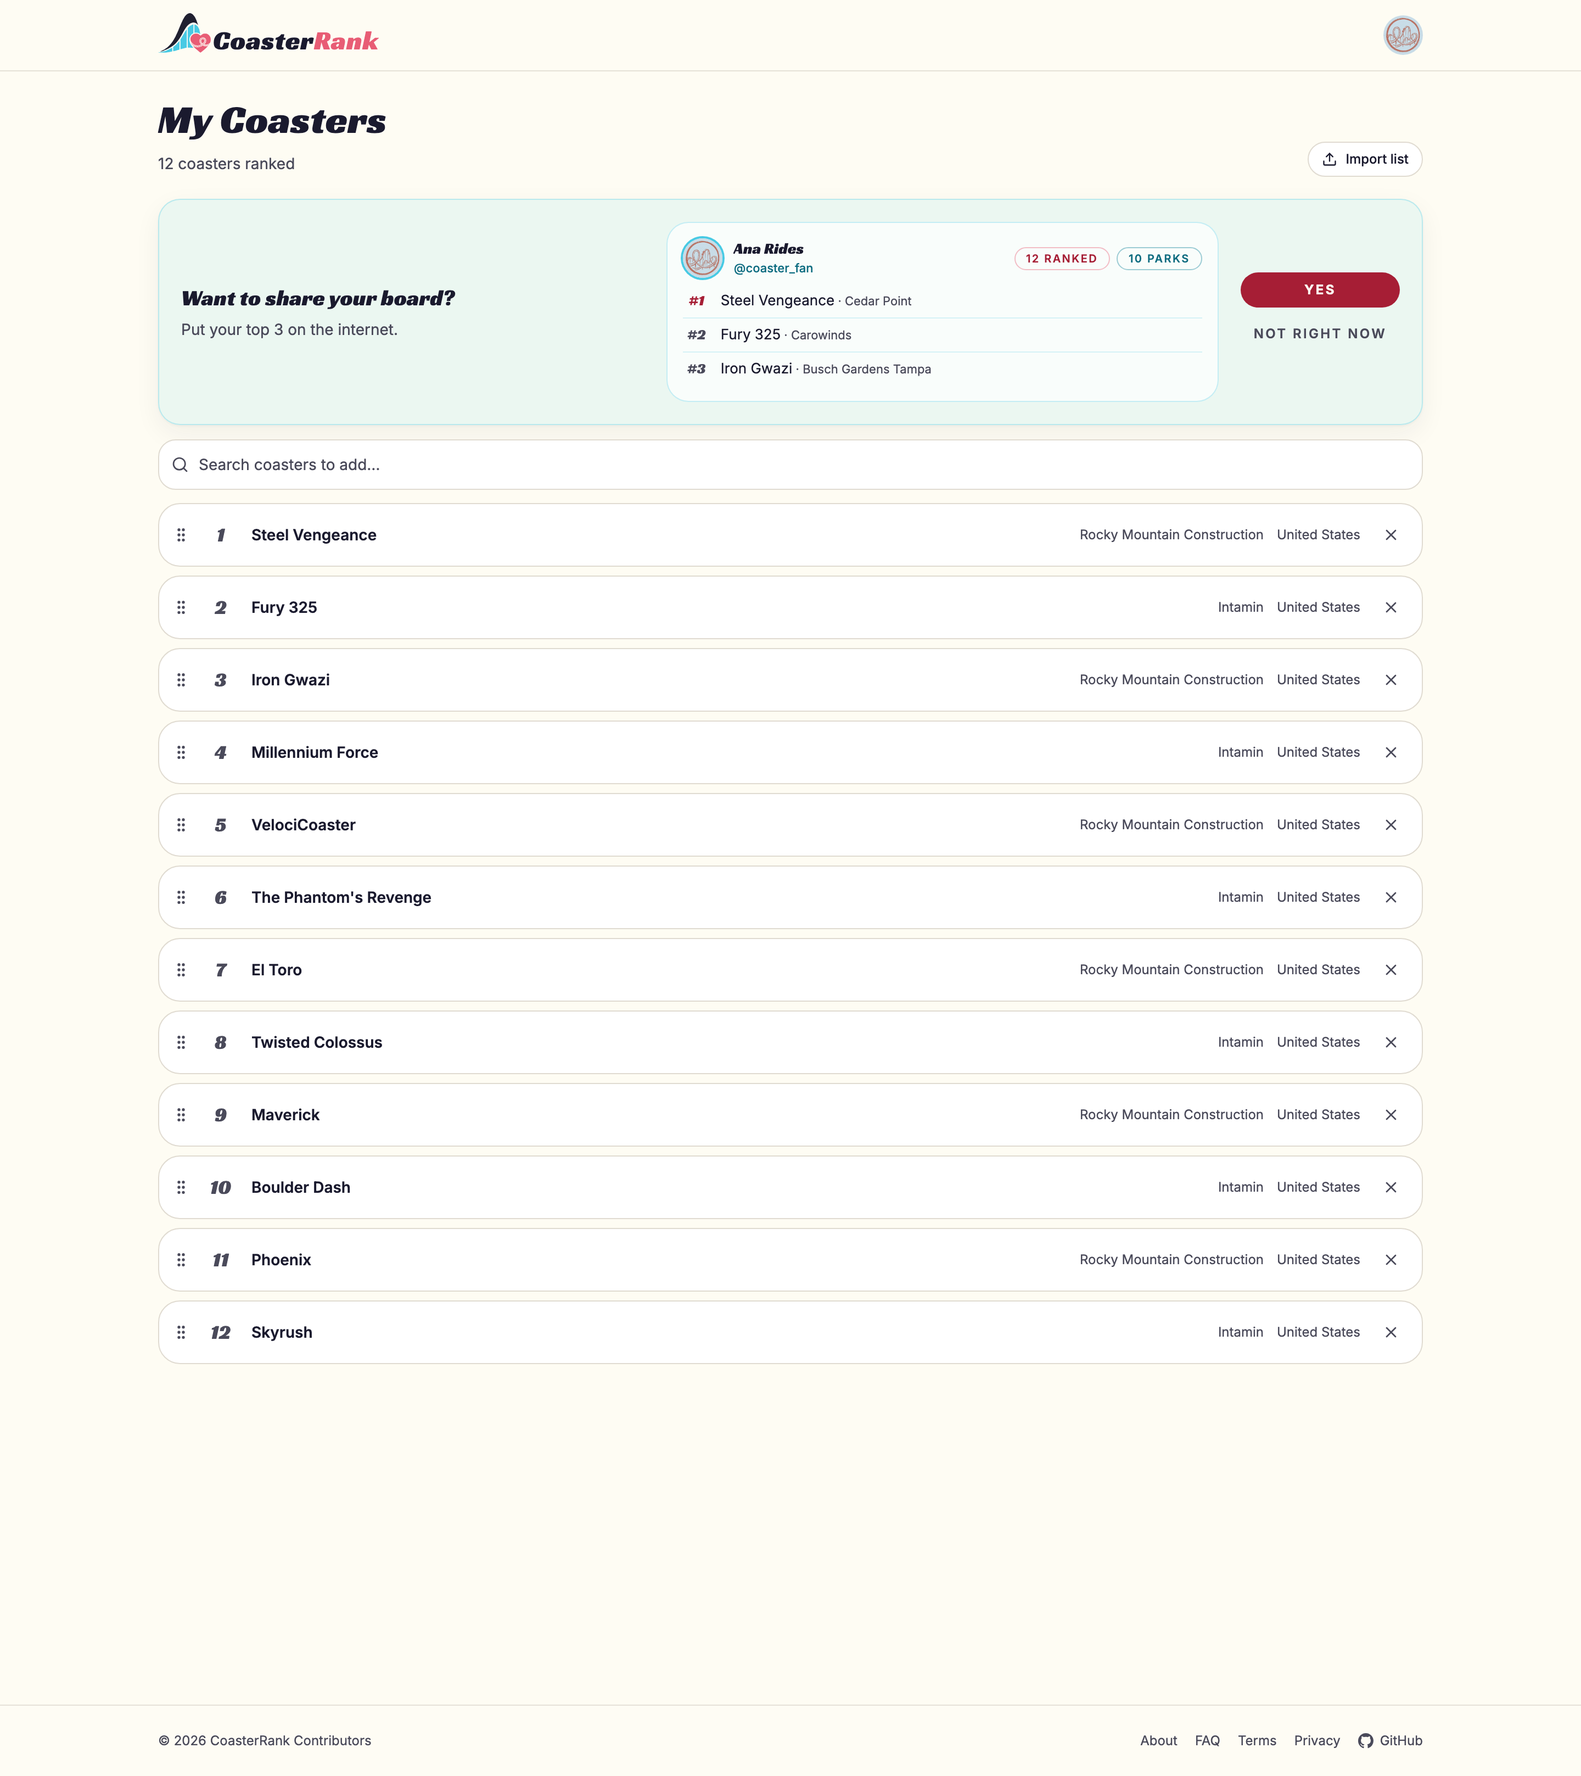
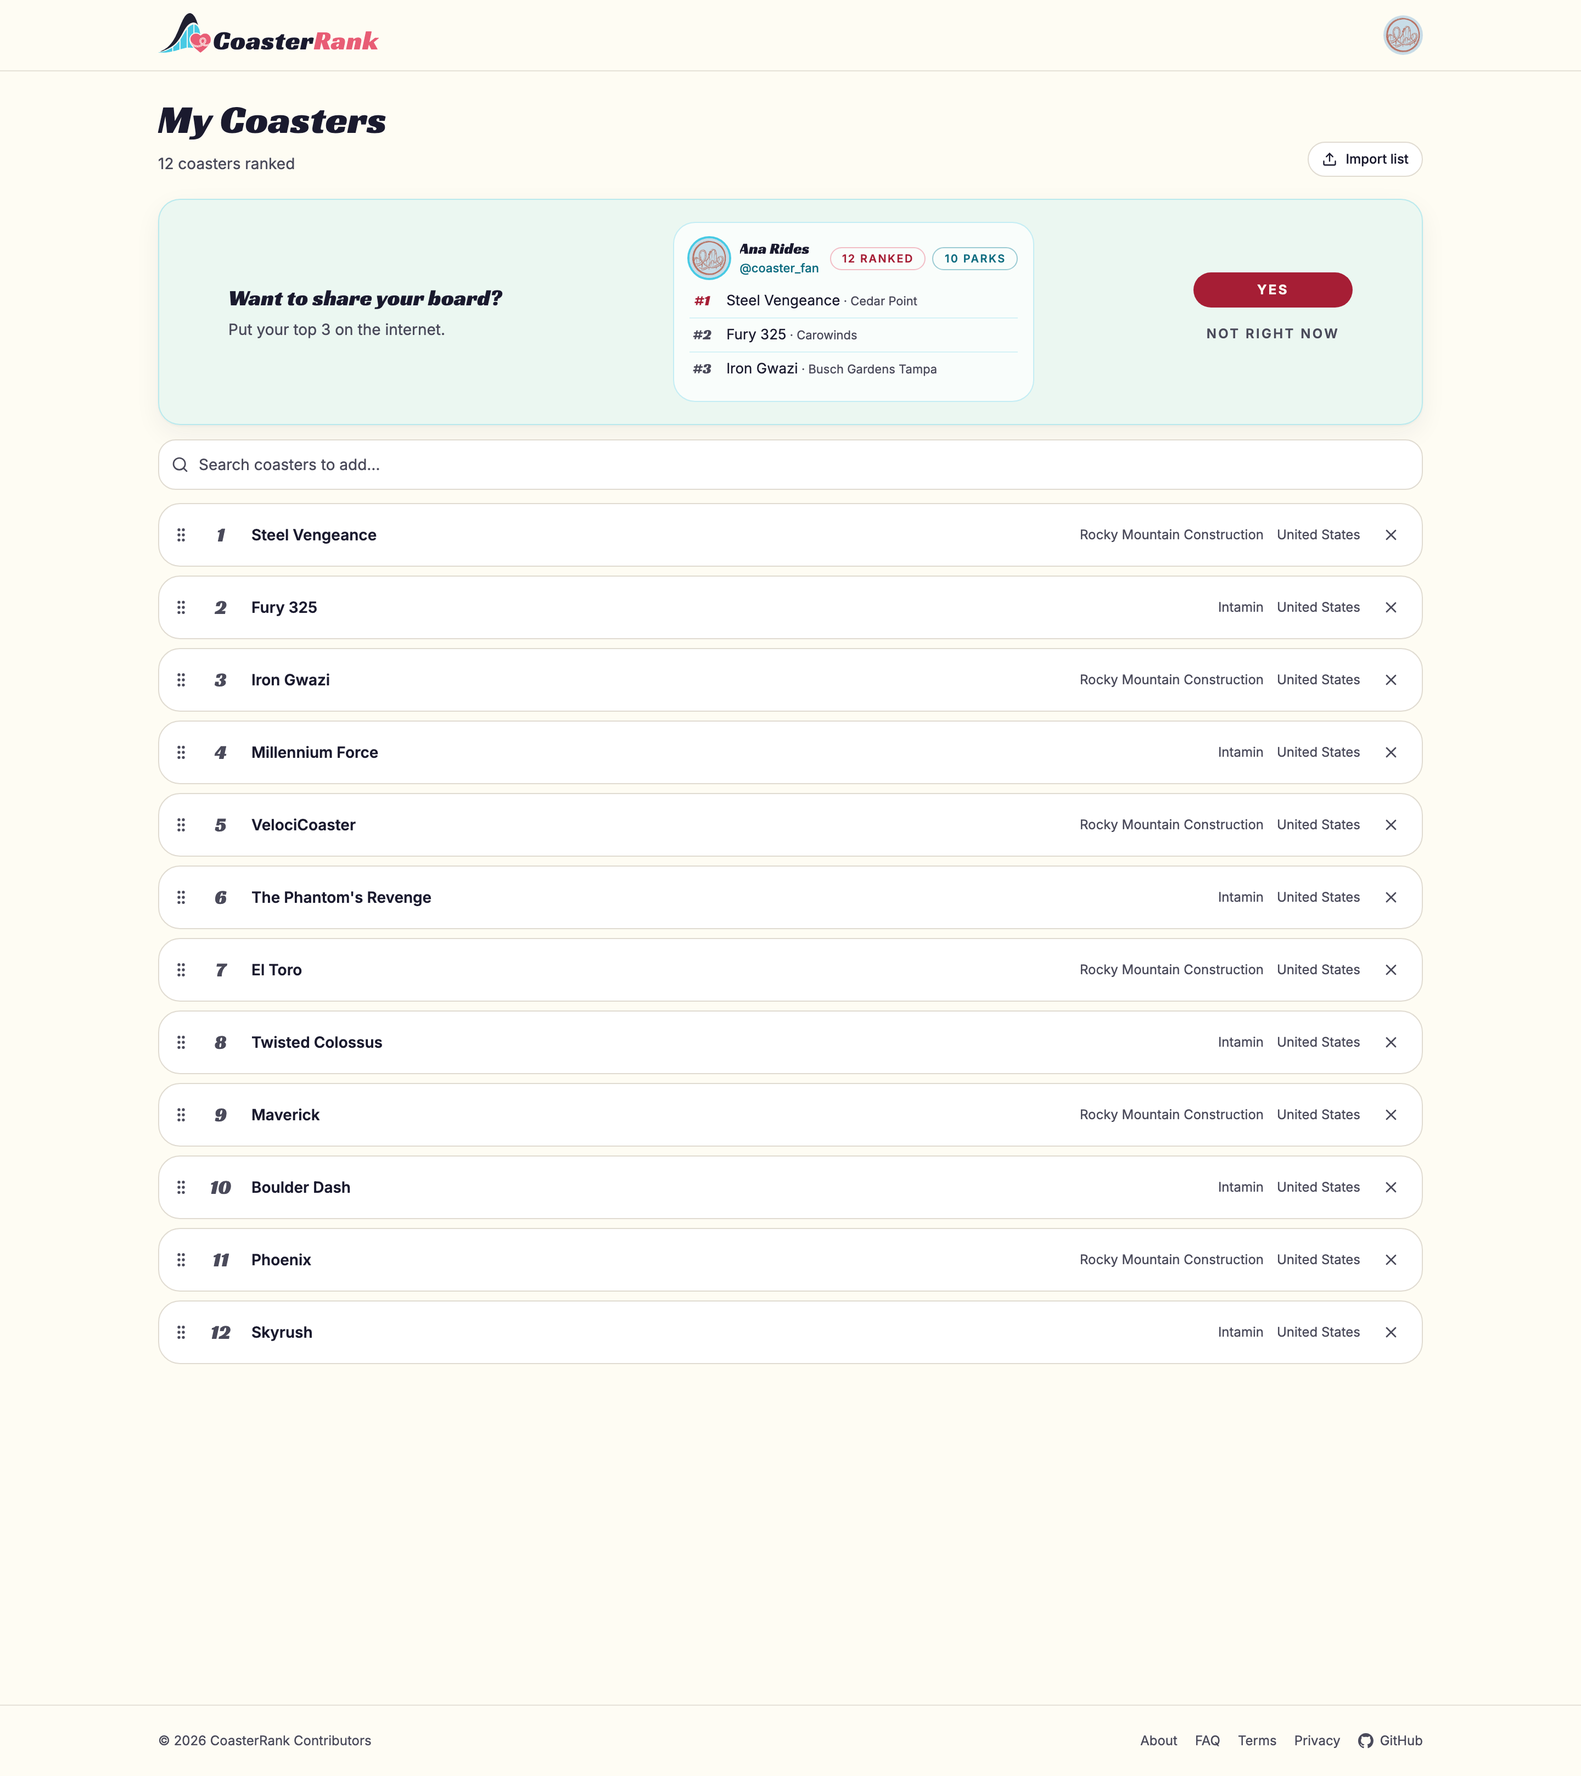
fix: even desktop gutters in share-nudge via centered max-w-5xl cluster
The dead zone right of the question was flex-1 growth pooling inside
the 350px left column (text only needs ~248px). Columns are now
content-width inside a centered max-w-5xl cluster with justify-between,
so leftover space moves to the banner's own padding and the two real
gutters split evenly (~148px each, measured). Left column sized to its
text (sm:w-[260px]); mobile layout unchanged (all adjustments sm:
prefixed). Preview shots refreshed.

diff --git a/app/src/components/ShareNudgeBanner.tsx b/app/src/components/ShareNudgeBanner.tsx
@@ -60,18 +60,21 @@ export default function ShareNudgeBanner({
       className="rounded-xl border border-accent/30 bg-accent/10 p-4 shadow-panel sm:p-5"
       data-testid="share-nudge-banner"
     >
-      {/* Desktop only: tighten the left↔middle dead zone and give the middle
-          column its own outlined card feel; mobile stacks unwrapped and keeps
-          the rows directly on the tint. */}
-      <div className="flex flex-wrap items-center gap-x-5 gap-y-4">
-        <div className="min-w-0 flex-1 basis-52">
+      {/* Desktop only: the column cluster is capped at max-w-5xl and centered
+          so leftover space moves to the banner's own padding instead of
+          pooling between the columns; justify-between then splits the small
+          remainder evenly across the two gutters. Columns stay content-width
+          (no flex-1 growth) and shrink gracefully below the cap; mobile
+          stacks unwrapped and keeps the rows directly on the tint. */}
+      <div className="mx-auto flex w-full max-w-5xl flex-wrap items-center justify-between gap-x-5 gap-y-4">
+        <div className="min-w-0 flex-1 basis-52 sm:w-[260px] sm:flex-none">
           <p className="display-heading text-xl leading-tight text-ink">
             Want to share your board?
           </p>
           <p className="mt-1.5 text-sm leading-snug text-muted">Put your top 3 on the internet.</p>
         </div>
 
-        <div className="min-w-0 flex-1 basis-72 sm:rounded-xl sm:border sm:border-accent/30 sm:bg-surface-bright/70 sm:p-3.5">
+        <div className="min-w-0 flex-1 basis-72 sm:max-w-[420px] sm:basis-auto sm:grow-0 sm:rounded-xl sm:border sm:border-accent/30 sm:bg-surface-bright/70 sm:p-3.5">
           <div className="flex flex-wrap items-center gap-x-2.5 gap-y-1.5">
             <Avatar
               src={avatarUrl}
@@ -115,7 +118,7 @@ export default function ShareNudgeBanner({
           )}
         </div>
 
-        <div className="flex w-full gap-2 sm:w-auto sm:flex-col sm:gap-2">
+        <div className="flex w-full gap-2 sm:w-auto sm:flex-col sm:shrink-0 sm:gap-2">
           <button
             type="button"
             onClick={() => setUnfurled(true)}

diff --git a/docs/PLAN.md b/docs/PLAN.md
@@ -32,7 +32,7 @@ A multi-user webapp where users rank the roller coasters they've ridden, and eve
 | Board meta + homepage rework (2026-09) | `/api/ranking` gains `last_recomputed_at` + `real_user_count` via a new `public_board_meta()` security-definer RPC (aggregate-only, anon-granted like `ranked_user_count()`; source: `cron_execution_logs` success row + profiles minus admins minus synthetic). Homepage: lockup scaled ~12%, TrackLine removed, status line always-rendered with skeletons (CLS slot `min-h-[60vh|65vh]`), gated user count (>50, desktop-only), `Live ●` popunder (hover shows / click pins; `last_recomputed_at` preferred), plain `About` link → `/about` stub, table rework (Country column dropped, GCI/CCI acronyms, white rank circles with display-font accent numerals + ink drop shadow on every rank, muted coral podium ramp 0.05/0.03/0.015, ~5% denser rows desktop+mobile, accent-tint rounded score pill, both layouts CSS-gated). Remaining open call: hero line placement A/B (mocked on the design board `/design.html`, dev-only). | Worker holds only the anon key (profiles/cron logs are RLS-locked; `coaster_ratings.updated_at` is first-insert stale), so one aggregate RPC is the only clean source; UI rework tracked as the homepage punchlist (§1–§8), final calls decided 2026-09-05. |
 | Full About + FAQ pages (2026-09) | `/about` rewritten from stub to full copy: open-source framing, layperson Bradley–Terry explainer (head-to-heads not stars, 100 = community average, per-rider influence normalization), personal backstory (VoteCoasters credit + link, "weekend project" gag), contribution asks (code/data/riding), `— pandeiro` handle sign-off. New `/faq` route (8 starter Q&As) linked from About + footer. Opt-in math disclosures (`MathDisclosure` component): collapsed by default, first open lazy-`import()`s **KaTeX** (+CSS/fonts) via a dynamic chunk — zero main-bundle cost; two inserts cover the BT probability model + MM update with anchor/λ rationale (from `packages/bt/src/mm.ts`) and the per-user weighting `w = 1/(n(n-1)/2)`; display equations sit in boxed rows that stack via `aligned` so 390px viewports don't clip. Tests assert collapsed default + lazy KaTeX render. | Normies get the plain-English story; the math is one sigma-pill click away. KaTeX over MathJax for bundle weight; disclosure content mirrors the real fit (not a simplified variant) so it can't drift from `packages/bt`. Deeper math treatment stays reserved for a future GH wiki page. |
 | Ranking-milestone share CTAs (2026-09, **removed**) | The 5/10-ranked milestone share CTAs on `/me` (`ShareListCard` + `lib/share-cta.ts`, per-milestone localStorage dismissal) are **scrapped** — `/me` stays a pure ranking surface. Share discovery remains where it belongs: `/me/profile` (URL display + copy link + opt-in toggle; `CopyLinkButton` extracted to its own component). Replaced days later by the idle-settled banner (next row) once the placement was rethought. | Just gets in the way on the primary ranking surface and doesn't drive shares; milestone framing ("5 ranked!") felt gamified-noisy rather than useful. |
-| Share nudge v2: idle-settled banner (2026-09) | A subtle, dismissible banner above the `/me` list — ONE small light accent-blue card (`bg-accent/10`, plain div not `Panel`, whose `bg-surface-bright` would win the cascade) laid out as **three tight columns**: ① the **"Want to share your board?"** question + one-line tagline ("Put your top 3 on the internet."), ② a **condensed skeleton of the rider share page** (cyan-ringed avatar, display-font name, cyan @handle, `N ranked` coral / `N parks` cyan outline pills, top-3 rows single-line with inline park names — park names ride along in the existing `useMyRides` embed via `parks(name, country)`; Racing Sans One `#N` ranks, `#1` coral, #2/#3 muted) in its own outlined sub-card on desktop (`sm:border-accent/30 sm:bg-surface-bright/70`, mobile rows stay directly on the tint) to keep banner height constrained; column gap tightened (`gap-x-5`) so the middle card doesn't float right of the question, ③ **YES** (crimson pill) / **NOT RIGHT NOW** (ghost, dismisses). YES **unfurls** (animated `animate-unfurl`) a full-width divider row: the rider URL as plain protocol-stripped mono text + Copy (full URL) + Preview when public, else profile-settings instructions ("Turn on public sharing… your page is already waiting at `/riders/{username}`"); the no-username branch stays inside the same unfurl (signup collects a username, but `handle_new_user()` deliberately falls back to `username = NULL` on unique-violation signup races — those users claim later). On mobile only, the banner renders between the page title and the full-width Import list button (flex-wrap ordering), keeping Import adjacent to the search/ranking machinery; desktop keeps Import top-right. Eligibility is ONE server-side RPC, `share_nudge_eligibility()`, called only at the My Coasters mount (never the board or coaster/park detail pages, never a modal on load): `profiles.share_nudge_shown_at IS NULL` AND ranked_count ≥ 5 (floor — nobody's "settled" this early) AND last ranked-ride edit ≥ 48h idle (settled, not mid-session tweaking). The RPC decides AND claims atomically — claim is `UPDATE profiles SET share_nudge_shown_at = now() WHERE id = auth.uid() AND share_nudge_shown_at IS NULL`, returning `found` as `eligible`, so multi-tab/multi-mount races collapse to exactly one banner ever. Dismiss is session-local UI state; no "dismissed" write exists. Data: one nullable column `profiles.share_nudge_shown_at`, written only by the RPC (deliberately kept off the client update-column whitelist). `user_rides.updated_at` was UPDATE-trigger-only (rank changes), leaving imported/once-ranked rows NULL forever → the trigger now stamps INSERTs too, plus a one-time backfill (`update user_rides set updated_at = now() where updated_at is null`) whose `now()` baseline is an honest conservative floor (long-idle lists become eligible ~48h post-deploy, nobody is misclassified as recently active). Client: `useShareNudge` (`staleTime: Infinity` — repeat mounts reuse the session's verdict instead of re-calling the claiming RPC). | The milestone card got in the way; idle ≥48h targets "settled" riders and never interrupts an active session; one-shot + local dismiss keeps it subtle; the single accent-blue card borrows the OG card's composition (identity / top rows / url) at banner scale as a YES-gated preview, so the nudge advertises what sharing actually looks like without occupying the page. SCHEMA.md must be regenerated post-merge (generator reads the live DB). |
+| Share nudge v2: idle-settled banner (2026-09) | A subtle, dismissible banner above the `/me` list — ONE small light accent-blue card (`bg-accent/10`, plain div not `Panel`, whose `bg-surface-bright` would win the cascade) laid out as **three tight columns**: ① the **"Want to share your board?"** question + one-line tagline ("Put your top 3 on the internet."), ② a **condensed skeleton of the rider share page** (cyan-ringed avatar, display-font name, cyan @handle, `N ranked` coral / `N parks` cyan outline pills, top-3 rows single-line with inline park names — park names ride along in the existing `useMyRides` embed via `parks(name, country)`; Racing Sans One `#N` ranks, `#1` coral, #2/#3 muted) in its own outlined sub-card on desktop (`sm:border-accent/30 sm:bg-surface-bright/70`, mobile rows stay directly on the tint) to keep banner height constrained; the three columns form a centered `max-w-5xl` cluster on desktop (`justify-between` + content-width columns) so the two gutters split evenly (~150px each) instead of pooling as one dead zone right of the question, ③ **YES** (crimson pill) / **NOT RIGHT NOW** (ghost, dismisses). YES **unfurls** (animated `animate-unfurl`) a full-width divider row: the rider URL as plain protocol-stripped mono text + Copy (full URL) + Preview when public, else profile-settings instructions ("Turn on public sharing… your page is already waiting at `/riders/{username}`"); the no-username branch stays inside the same unfurl (signup collects a username, but `handle_new_user()` deliberately falls back to `username = NULL` on unique-violation signup races — those users claim later). On mobile only, the banner renders between the page title and the full-width Import list button (flex-wrap ordering), keeping Import adjacent to the search/ranking machinery; desktop keeps Import top-right. Eligibility is ONE server-side RPC, `share_nudge_eligibility()`, called only at the My Coasters mount (never the board or coaster/park detail pages, never a modal on load): `profiles.share_nudge_shown_at IS NULL` AND ranked_count ≥ 5 (floor — nobody's "settled" this early) AND last ranked-ride edit ≥ 48h idle (settled, not mid-session tweaking). The RPC decides AND claims atomically — claim is `UPDATE profiles SET share_nudge_shown_at = now() WHERE id = auth.uid() AND share_nudge_shown_at IS NULL`, returning `found` as `eligible`, so multi-tab/multi-mount races collapse to exactly one banner ever. Dismiss is session-local UI state; no "dismissed" write exists. Data: one nullable column `profiles.share_nudge_shown_at`, written only by the RPC (deliberately kept off the client update-column whitelist). `user_rides.updated_at` was UPDATE-trigger-only (rank changes), leaving imported/once-ranked rows NULL forever → the trigger now stamps INSERTs too, plus a one-time backfill (`update user_rides set updated_at = now() where updated_at is null`) whose `now()` baseline is an honest conservative floor (long-idle lists become eligible ~48h post-deploy, nobody is misclassified as recently active). Client: `useShareNudge` (`staleTime: Infinity` — repeat mounts reuse the session's verdict instead of re-calling the claiming RPC). | The milestone card got in the way; idle ≥48h targets "settled" riders and never interrupts an active session; one-shot + local dismiss keeps it subtle; the single accent-blue card borrows the OG card's composition (identity / top rows / url) at banner scale as a YES-gated preview, so the nudge advertises what sharing actually looks like without occupying the page. SCHEMA.md must be regenerated post-merge (generator reads the live DB). |
 | Email stack: Resend SMTP + branded templates (2026-09) | Auth email leaves via **Resend SMTP** (Supabase Auth custom SMTP; sender `ops@coasterrank.app` "CoasterRank Ops"; free tier 100/day). Branded, text-first HTML templates for **confirm-signup / magic-link+OTP / reset-password / invite** live in **`supabase/email-templates/`** as the reviewed source of truth and are applied with `scripts` `sync-email-templates` (Management API `PATCH config/auth` of **only** `mailer_subjects_*` + `mailer_templates_*_content`; dry-run default, `--apply` verifies by re-read). Design system: table layout, inline CSS only, cream canvas + ink text + cyan CTA pill + coral lap-bar accent, single small mark image (alt-text graceful when Gmail blocks images), hidden preheaders, plain-link fallback, reply-friendly footer. SPA wiring: `/forgot-password` → `/reset-password` (recovery round-trip preserves `?next` deep links), "Email me a sign-in link" with 8-digit code entry (`signInWithOtp` + `verifyOtp`), invited banner on `/login?invited=1`, profile set/change-password panel; **admin invite** via `admin-users` POST `{action:'invite'}` (fixed prod redirect; GoTrue creates the unconfirmed user, trigger bootstraps the profile — invitees start passwordless). Expiry copy coupled to dashboard `mailer_otp_exp=3600` / `mailer_otp_length=8`. Deferred: submission-reviewed notifications, digests, Resend bounce/complaint webhooks, non-auth transactional mail via Resend API. **User-to-user invites designed but deferred**: `invites` table (inviter, invitee email, accepted_at, invitee_id) + `invite_within_cap()` (~5 pending + modest lifetime cap, mirroring `submission_within_cap()`), confirmed-email gate on the inviter, fixed email copy (no custom message), admin visibility + cancel (= delete the unconfirmed row), kill-switch secret, `profiles.referred_by` fed from invite metadata via `handle_new_user()`. Rationale: the abuse risk is not in-app spam — invites email *third parties from coasterrank.app*, and invite abuse burns the sender reputation ALL auth email rides on (Resend pauses ~0.08% complaints; the free tier's 100/day is shared with auth email). | Default Supabase emails are rate-limited (2/hr) and unbranded; Resend free tier + validated domain gives deliverability + trust. Templates in git = reviewable diffs instead of dashboard click-ops (config isn't migratable). Passwordless sign-in makes invited accounts workable from day one and kills most "forgot password" pain; reset flow still required as the escape hatch. |
 
 ## 3. Architecture

diff --git a/docs/previews/share-nudge/README.md b/docs/previews/share-nudge/README.md
@@ -7,7 +7,7 @@ Screenshots for the idle-settled share nudge (PLAN §2 "Share nudge v2"), captur
 
 | File | Shows |
 | --- | --- |
-| `share-nudge-states-desktop.png` | The banner's states, desktop: furled (three columns — "Want to share your board?" / condensed share-page skeleton / YES + NOT RIGHT NOW), then YES unfurled three ways — the rider link (copy + preview), enable-sharing instructions, claim-username instructions. One light accent-blue card; on desktop the skeleton sits in its own outlined sub-card, the top-3 rows carry Racing Sans One ranks (#1 coral). |
+| `share-nudge-states-desktop.png` | The banner's states, desktop: furled (three columns — "Want to share your board?" / condensed share-page skeleton / YES + NOT RIGHT NOW), then YES unfurled three ways — the rider link (copy + preview), enable-sharing instructions, claim-username instructions. One light accent-blue card; the three columns sit in a centered max-w-5xl cluster with even ~150px gutters (question / outlined skeleton sub-card / buttons), top-3 rows carrying Racing Sans One ranks (#1 coral). |
 | `share-nudge-states-mobile.png` | Same states at 390px — columns stack (question, skeleton, button row, unfurl) full-width. |
 | `share-nudge-placement-desktop.png` | The furled banner in context on `/me`, below the header row (Import list stays top-right). |
 | `share-nudge-placement-mobile.png` | Same placement at 390px — the banner sits above the full-width Import list button, keeping Import adjacent to the search bar and ranking table. |
